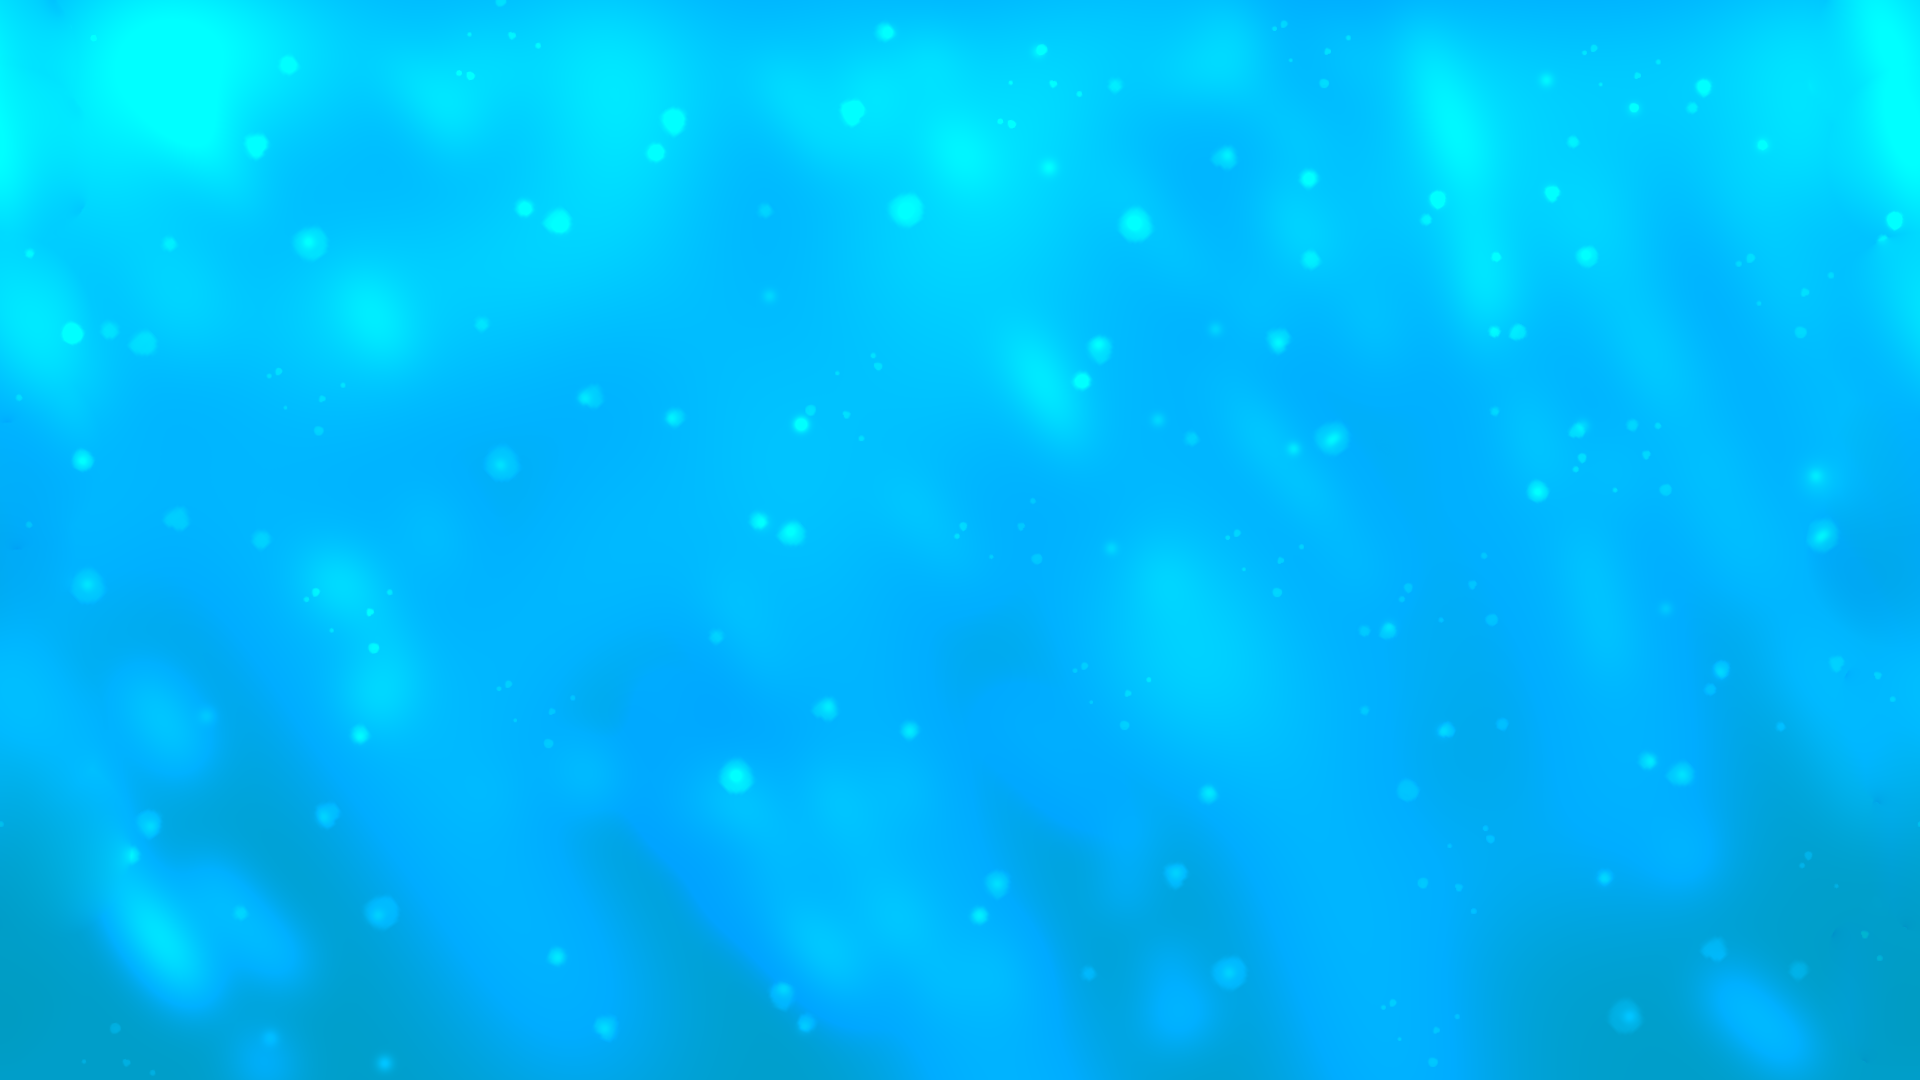
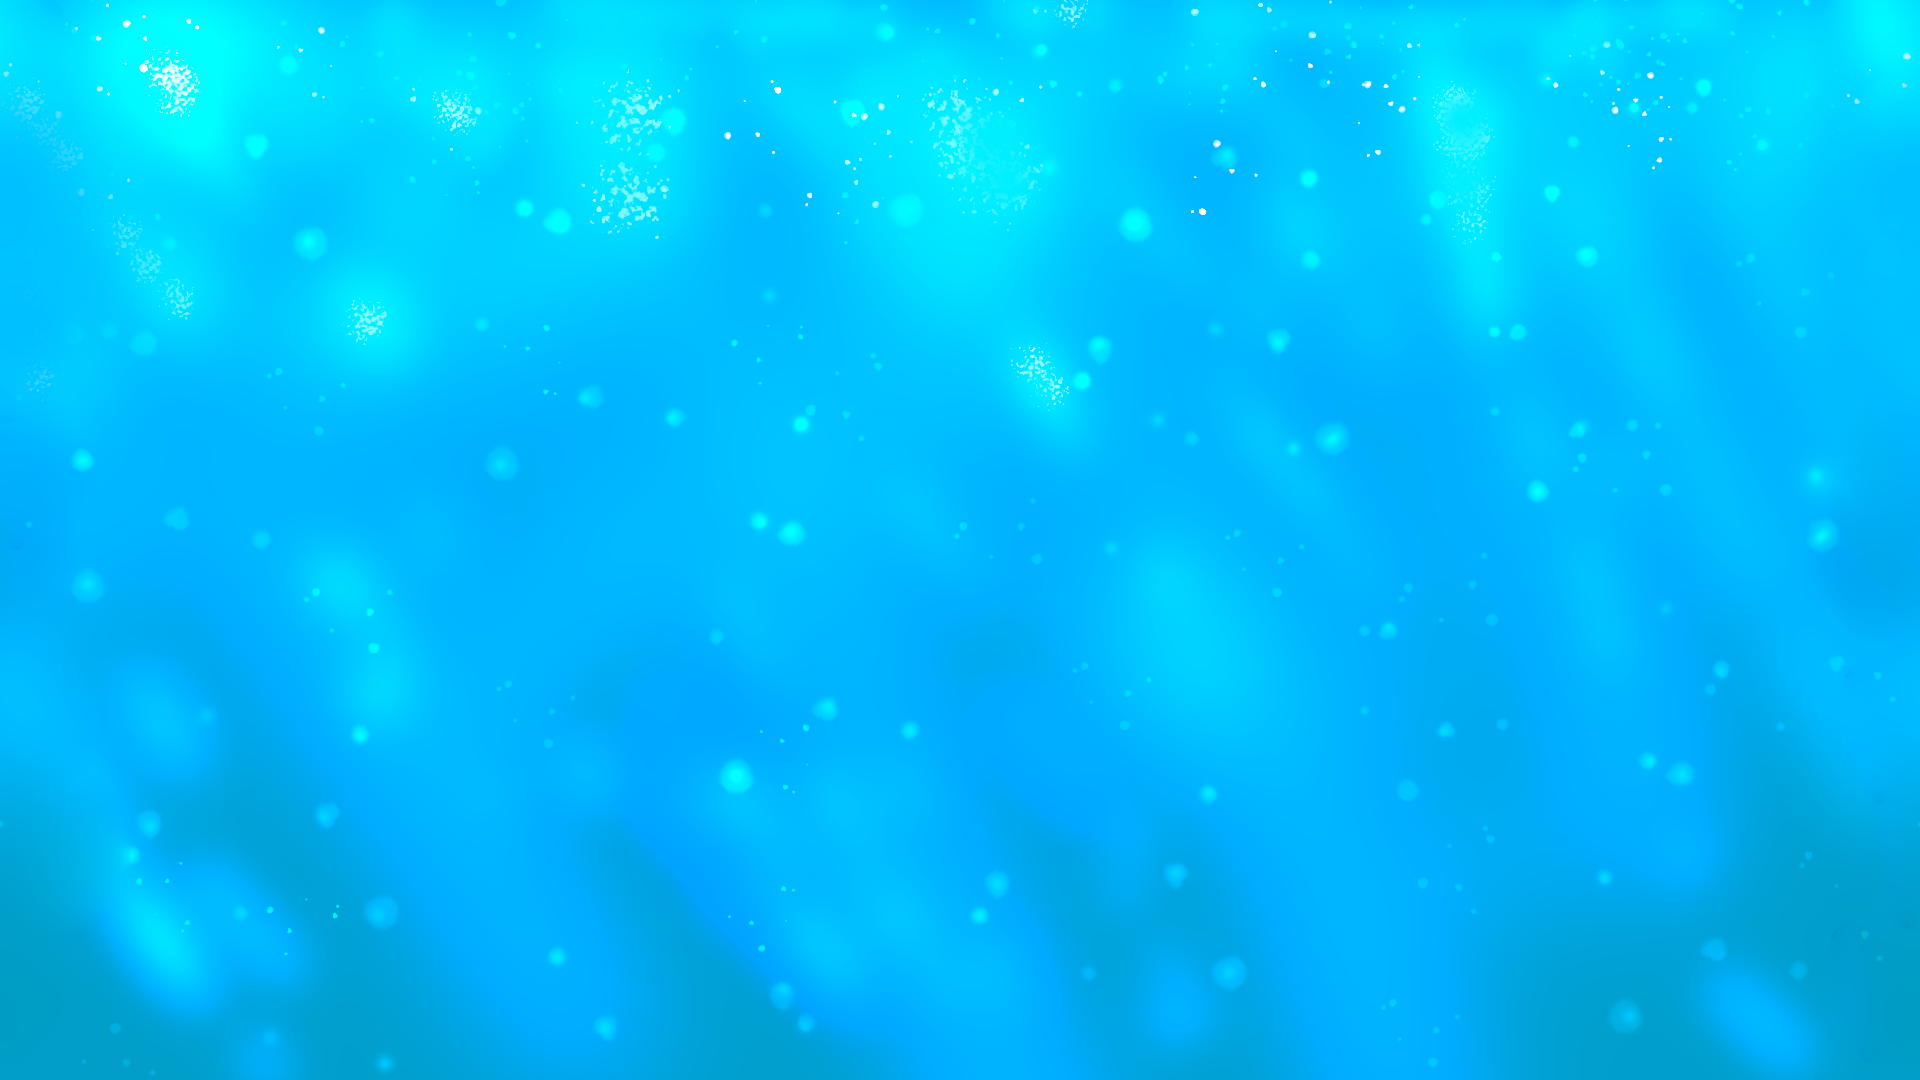
new pictures

diff --git a/deep-dive/components/screens/DepthNavigator.js b/deep-dive/components/screens/DepthNavigator.js
@@ -269,13 +269,13 @@ const DepthNavigator = () => {
   );
 
   const renderItem5 = ({ item }) => (
-    <ListItem4
+    <ListItem5
       width={width}
       height={height}
       color={item.color}
       title={item.title}
       text={item.text5}
-    ></ListItem4>
+    ></ListItem5>
   );
 
   //Constantly update current offset
@@ -490,7 +490,7 @@ const DepthNavigator = () => {
           style={styles.scrollView}
           horizontal
           data={data}
-          renderItem={renderItem4}
+          renderItem={renderItem5}
           keyExtractor={(item) => item.id}
           onEndReachedThreshold={0.25}
           onEndReached={endHandler}

diff --git a/deep-dive/components/listItems/ListItem5.js b/deep-dive/components/listItems/ListItem5.js
@@ -2,7 +2,7 @@ import { StyleSheet, Text, ImageBackground } from "react-native";
 
 export const ListItem5 = (props) => {  
     return(
-        <ImageBackground source={require("deep-dive/assets/layers/DeepSeaEnviromentLvl4.png")} style={{width: props.width, height: props.height, justifyContent: "center", alignItems: "center"}}>
+        <ImageBackground source={require("deep-dive/assets/layers/DeepSeaEnviromentLvl5.png")} style={{width: props.width, height: props.height, justifyContent: "center", alignItems: "center"}}>
             <Text style={styles.title}>
                 {props.title}
             </Text>
